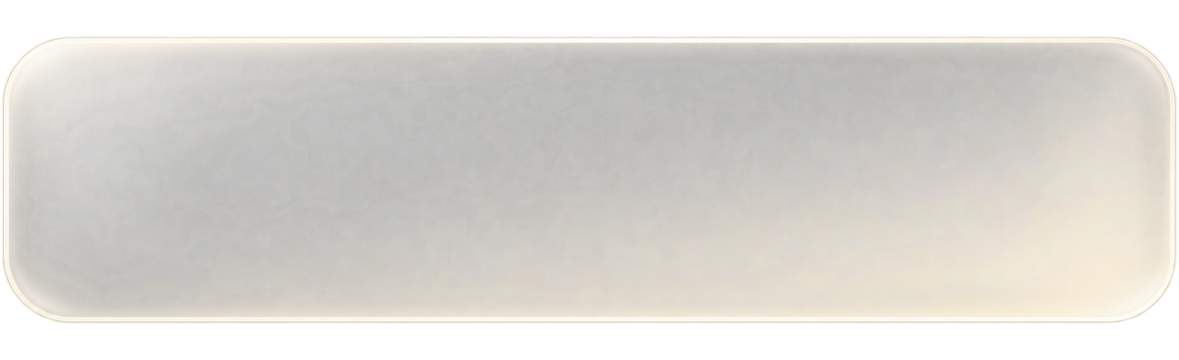
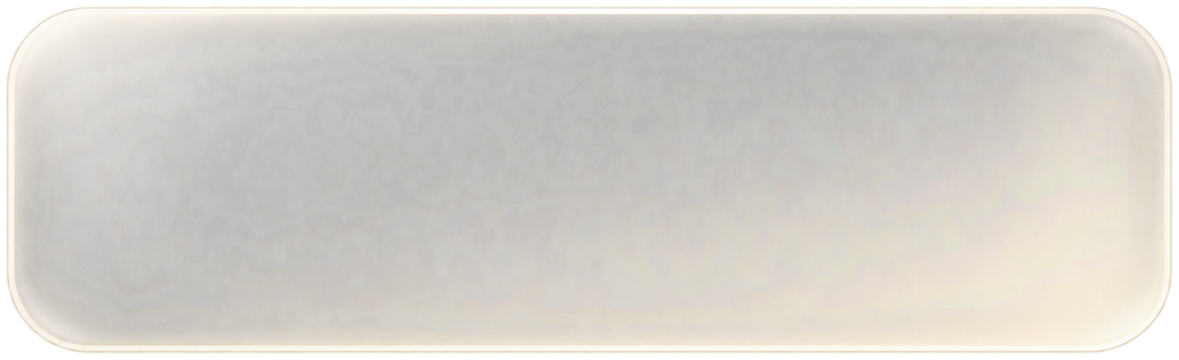
Add section 13 UI assets and tighten padding: camera

diff --git a/app/assets/ui/provenance/prompts-camera.md b/app/assets/ui/provenance/prompts-camera.md
@@ -210,3 +210,7 @@ Processing: Trim alpha margin and proportionally fit exact canvas without stretc
 
 Source: C:\Users\User\.codex\generated_images\01a16dc8-84e9-7e73-953c-375657e785a2\exec-20f867e8-e952-46b3-9964-0cd0345211c4.png
 
+
+## Section13 stretch metadata audit
+
+See stretch-normalization.json for transparentmargin measurements and any geometric9slice resizing. Final cap insets are recorded in manifest.json. No new image-generation prompt needed for resize normalization.
